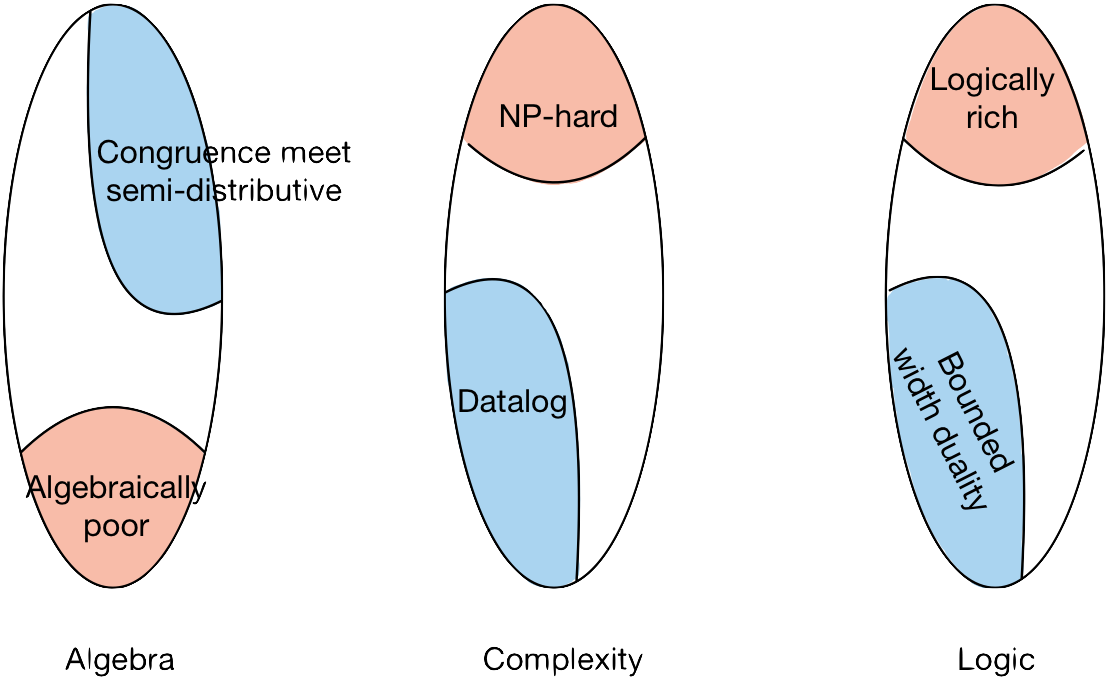
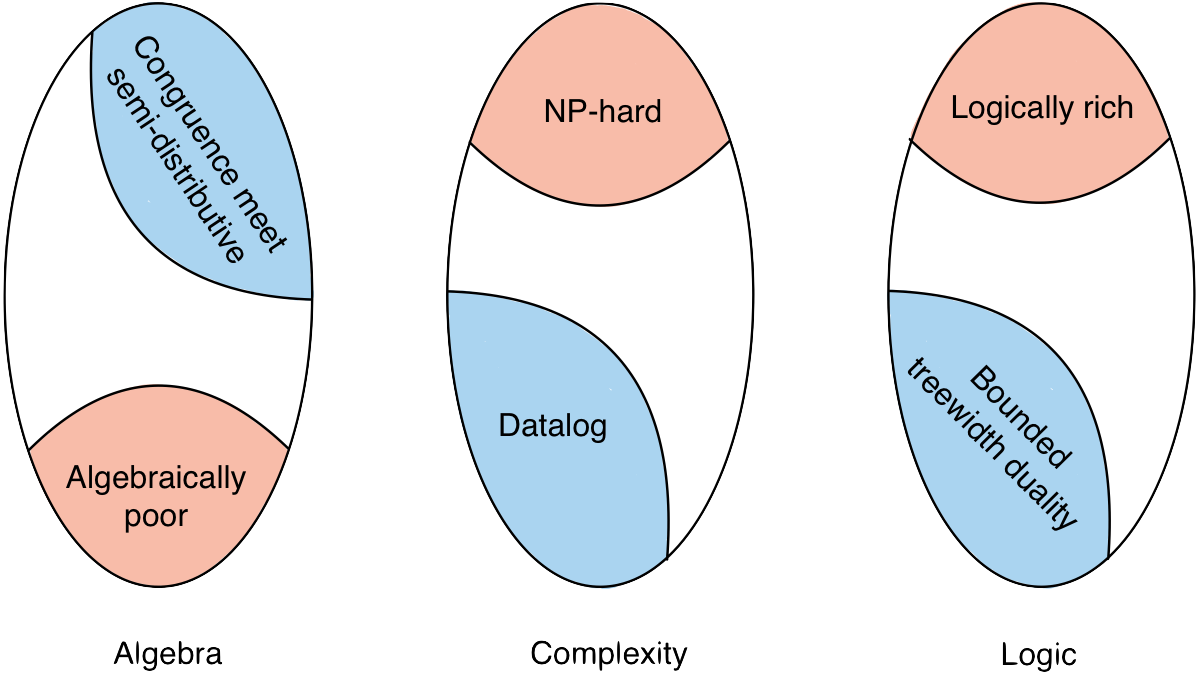
...

diff --git a/talks/munich/munich.html b/talks/munich/munich.html
@@ -158,8 +158,7 @@ I used to say that no one knows <strong>why</strong> this happens.<br />
         <hr>
         <div class="timeline_dates center">
             <div class="timeline_date" data-tmdate="1978" data-tmpos="0">1978</div>
-            <div class="timeline_date" data-tmdate="1990" data-tmpos="28">1990</div>
-            
+            <div class="timeline_date" data-tmdate="1990" data-tmpos="28">1990</div>    
             <div class="timeline_date " data-tmdate="1993" data-tmpos="36">1993</div>
             <div class="timeline_date " data-tmdate="2000" data-tmpos="53">2000</div>
             <div class="timeline_date " data-tmdate="2003" data-tmpos="60">2003</div>
@@ -329,17 +328,74 @@ I used to say that no one knows <strong>why</strong> this happens.<br />
           
         Two large classes of structures relevant for applications: <strong>numeric</strong> structures and <strong>orbit-finite</strong> structures.
       </div>
-      <ul>
+        
+      <div class="slide">
+      Can be seen as <strong>finite</strong> constraint satisfaction but for finding labelling of <strong>pairs</strong> of variables satisfying higher-dimensional constraints.
+      </div>
+    <div style="position:relative;">
+        <div class="out-of-layout"><div class=" slide example vanish">Find an assignment $E\to\{\text{red}, \text{blue}\}$ while avoiding monochromatic <strong>triangles</strong>.
+        <img src="assets/infinite_example.png" />
+        </div></div>
+        <div class="out-of-layout"><div class=" slide example vanish">Find an assignment $E\to\{\text{red}, \text{blue}\}$ while avoiding monochromatic <strong>triangles</strong>.
+        <img src="assets/infinite_example1.png" />
+        </div></div>
+        <div class="out-of-layout"><div class=" slide example vanish">Find an assignment $E\to\{\text{red}, \text{blue}\}$ while avoiding monochromatic <strong>odd cycles</strong>.
+        <img src="assets/infinite_example2.png" />
+        </div></div>
+        <div class="out-of-layout"><div class=" slide example vanish">Find an orientation that avoids <strong>directed cycles</strong>.
+        <img src="assets/infinite_example.png" />
+        </div></div>
+        
+    </div>
+    <div class="slide example">Find an orientation that avoids <strong>directed cycles</strong>.
+        <img src="assets/infinite_example3.png" />
+        </div>
+    <ul class="slide with-margins">
+        <li>Intuitive explanation: build an infinite constraint language $\mathbb A$ for which the corresponding satisfiable instances are graphs with an admissible coloring/orientation.</li>
+        <li>Utilizes Fraïssé or Hrushovski amalgamation methods from model theory</li>
+    </ul>
+    </section>
+      
+    <section class="slide" id="timeline_infinite">
+        <h2>Timeline: Infinite edition</h2>
+      <div class="timeline">
+        <hr>
+        <div class="timeline_dates center">
+            <div class="timeline_date" data-tmdate="2006" data-tmpos="0">2006</div>
+            <div class="timeline_date" data-tmdate="2008" data-tmpos="11">2008</div>
+            <div class="timeline_date " data-tmdate="2011" data-tmpos="27">2011</div>
+            <div class="timeline_date " data-tmdate="2015" data-tmpos="49">2015</div>
+            <div class="timeline_date " data-tmdate="2018" data-tmpos="64">2018</div>
+            <div class="timeline_date " data-tmdate="2019" data-tmpos="69">2019</div>
+            <div class="timeline_date " data-tmdate="2021" data-tmpos="80">2021</div>
+            <div class="timeline_date " data-tmdate="2022" data-tmpos="85">2022</div>
+            <div class="timeline_date " data-tmdate="2023" data-tmpos="90">2023</div>
+            <div class="timeline_date" data-tmdate="2024" data-tmpos="95">2024</div>
+        </div>
+          
+        <div class="timeline_descs">
+          
+        <div class="conjecture timeline_desc slide"tm-desc="2011">
+            <div class="citation" data-tmdesc="2011">Bodirsky, Pinsker</div>    
+            For such a constraint language $\mathbb A$, exactly one of the following holds:
+            <ul>
+            <li>$\Pol(\mathbb A)$ is algebraically and topologically non-trivial, and $\CSP(\mathbb A)$ is solvable in polynomial time</li>
+            <li>$\mathbb A$ can logically define 3-SAT, and $\CSP(\mathbb A)$ is NP-complete.</li>
+            </ul>
+        </div>
+      <ul class="with-margins">
           <li class="slide"><strong>Smooth Approximations</strong>: a theory to relate finite CSPs and infinite CSPs
-              <ul class="slide"><li>Subsumes most of the literature from period 2006-2020<span class="inline-citation"><strong>M.</strong>, Pinsker [J. ACM'24]</span></li>
-              <li>Recent extensions of the theory to prove new results<span class="inline-citation"><strong>M.</strong>, Nagy, Pinsker [ICALP'24] Bitter, <strong>M.</strong> [MFCS'24]</span></li></ul></li>  
-        <li class="slide">Algebraic theory of polymorphisms on infinite sets<span class="inline-citation">Barto, Bodor, Kozik, <strong>M.</strong>, Pinsker [LICS'23]</span></li>
+              <ul class="slide" data-tmdesc="2024,2021,2022"><li>Subsumes most of the literature from period 2006-2020<span class="inline-citation"><strong>M.</strong>, Pinsker [J. ACM'24]</span></li>
+              <li>Recent promising extensions of the theory<span class="inline-citation"><strong>M.</strong>, Nagy, Pinsker, Wrona [SICOMP'24] <strong>M.</strong>, Nagy, Pinsker [ICALP'24] Bitter, <strong>M.</strong> [MFCS'24]</span></li></ul></li>  
+        <li class="slide" data-tmdesc="2023">Algebraic theory of polymorphisms on infinite sets<span class="inline-citation">Barto, Bodor, Kozik, <strong>M.</strong>, Pinsker [LICS'23]</span></li>
       </ul>
         
     <div class="slide theorem">
-    <div class="citation"><strong>M.</strong> ['24+]</div>    
+    <div class="citation" data-tmdesc="2024"><strong>M.</strong> ['24+]</div>    
         Let $\mathbb A$ be such that $\CSP(\mathbb A)$ is not NP-hard. Then for all <strong>orbit-finite</strong> $\mathscr G\subseteq\Aut(\mathbb A)$, there exist $\varphi\colon A^6\to A, \alpha,\beta,\gamma\in\overline{\mathscr G}$ satisfying
         $$\forall x,y\in A\colon \alpha\circ \varphi(x,x,y,y,x,x) = \beta\circ \varphi(x,y,x,y,x,y) = \gamma\circ \varphi(y,x,x,x,y,y)$$
+    </div>  
+        </div>
     </div>
     </section>
       
@@ -359,17 +415,21 @@ I used to say that no one knows <strong>why</strong> this happens.<br />
             <li>A theory compiling our medical knowledge: an <strong>ontology</strong></li>
         </ul>
         </div>
-        <div class="slide">We want:<ul><li>query the system to find patients in the database satisfying certain properties</li></ul></div>
+        <div class="slide">We want:<ul><li>query the system to find patients in the database satisfying certain properties <strong>modulo the ontology</strong></li></ul></div>
         </div>
         
-        <pre class="slide"><code>--- Placeholder ---</code></pre>
+        <div style="position:relative;">
+        <div class="out-of-layout"><div class="shelf slide vanish">
+        <pre><code>Observed(patient1,"Erythema chronica migrans")</code></pre>
+        <img src="assets/snomed.png" style="height:200px; width:auto;"/>
+        <pre><code>Return patients with Lyme disease</code></pre>
+        </div></div>
         
-        <div class="slide">Execution of a fixed query on an input database is coNP-complete. Which queries are efficiently executable?</div>
+        <div class="slide">Execution of a fixed query on an input database is in coNP. Which queries are efficiently executable?</div>
         
         <div class="slide with-margins">
-        <div class="theorem">
+        <div class="theorem"><div class="citation">Bienvenu, Lutz, Ten Cate, Wolter [TODS'14] + Bodirsky, Madelaine, <strong>M.</strong> [LICS'18]</div>
         Evaluating a query $(\mathcal O,q)$ in $(\mathcal{ALC},UCQ)$ is logspace-equivalent to solving a CSP instance in $\mathbb A_{\mathcal O,q}$.
-            <div class="citation">Bienvenu, Lutz, Ten Cate, Wolter [TODS'14] + Bodirsky, Madelaine, <strong>M.</strong> [LICS'18]</div>
         </div>
         </div>
         
@@ -410,7 +470,7 @@ I used to say that no one knows <strong>why</strong> this happens.<br />
         <div class="out-of-layout">
             <div class="shelf slide vanish">
             <div class="game-status" style="width:35%;">
-                <p>Emmanuel wants to keep $\sum w_i\geq 0$ in the limit,<br /> Angela want to make the sum $&lt;0$.</p>
+                <p>Emmanuel wants to keep $\sum w_i\geq 0$ in the limit,<br /> Marine wants to make the sum $&lt;0$.</p>
             <ul>
                 <li>Turn: Emmanuel</li>
                 <li>Current $\sum$: 0</li>
@@ -422,7 +482,7 @@ I used to say that no one knows <strong>why</strong> this happens.<br />
         <div class="out-of-layout">
             <div class="shelf slide vanish">
             <div class="game-status" style="width:35%;">
-                <p>Emmanuel wants to keep $\sum w_i\geq 0$ in the limit,<br /> Angela want to make the sum $&lt;0$.</p>
+                <p>Emmanuel wants to keep $\sum w_i\geq 0$ in the limit,<br /> Marine wants to make the sum $&lt;0$.</p>
             <ul>
                 <li>Turn: Emmanuel</li>
                 <li>Current $\sum$: -1</li>
@@ -434,9 +494,9 @@ I used to say that no one knows <strong>why</strong> this happens.<br />
         <div class="out-of-layout">
             <div class="shelf slide vanish">
             <div class="game-status" style="width:35%;">
-                <p>Emmanuel wants to keep $\sum w_i\geq 0$ in the limit,<br /> Angela want to make the sum $&lt;0$.</p>
+                <p>Emmanuel wants to keep $\sum w_i\geq 0$ in the limit,<br /> Marine wants to make the sum $&lt;0$.</p>
             <ul>
-                <li>Turn: Angela</li>
+                <li>Turn: Marine</li>
                 <li>Current $\sum$: -2</li>
             </ul>
             </div>
@@ -446,7 +506,7 @@ I used to say that no one knows <strong>why</strong> this happens.<br />
         <div class="out-of-layout">
             <div class="shelf slide vanish">
             <div class="game-status" style="width:35%;">
-                <p>Emmanuel wants to keep $\sum w_i\geq 0$ in the limit,<br /> Angela want to make the sum $&lt;0$.</p>
+                <p>Emmanuel wants to keep $\sum w_i\geq 0$ in the limit,<br /> Marine wants to make the sum $&lt;0$.</p>
             <ul>
                 <li>Turn: Emmanuel</li>
                 <li>Current $\sum$: 0</li>
@@ -458,9 +518,9 @@ I used to say that no one knows <strong>why</strong> this happens.<br />
         <div class="out-of-layout">
             <div class="shelf slide vanish">
             <div class="game-status" style="width:35%;">
-                <p>Emmanuel wants to keep $\sum w_i\geq 0$ in the limit,<br /> Angela want to make the sum $&lt;0$.</p>
+                <p>Emmanuel wants to keep $\sum w_i\geq 0$ in the limit,<br /> Marine wants to make the sum $&lt;0$.</p>
             <ul>
-                <li>Turn: Angela</li>
+                <li>Turn: Marine</li>
                 <li>Current $\sum$: 42</li>
             </ul>
             </div>
@@ -470,7 +530,7 @@ I used to say that no one knows <strong>why</strong> this happens.<br />
         <div class="out-of-layout">
             <div class="shelf slide vanish">
             <div class="game-status" style="width:35%;">
-                <p>Emmanuel wants to keep $\sum w_i\geq 0$ in the limit,<br /> Angela want to make the sum $&lt;0$.</p>
+                <p>Emmanuel wants to keep $\sum w_i\geq 0$ in the limit,<br /> Marine wants to make the sum $&lt;0$.</p>
             <ul>
                 <li>Turn: Emmanuel</li>
                 <li>Current $\sum$: 52</li>
@@ -482,7 +542,7 @@ I used to say that no one knows <strong>why</strong> this happens.<br />
         <div class="out-of-layout">
             <div class="shelf slide vanish">
             <div class="game-status" style="width:35%;">
-                <p>Emmanuel wants to keep $\sum w_i\geq 0$ in the limit,<br /> Angela want to make the sum $&lt;0$.</p>
+                <p>Emmanuel wants to keep $\sum w_i\geq 0$ in the limit,<br /> Marine wants to make the sum $&lt;0$.</p>
             <ul>
                 <li>Turn: Emmanuel</li>
                 <li>Current $\sum$: 51</li>
@@ -494,10 +554,10 @@ I used to say that no one knows <strong>why</strong> this happens.<br />
           <div class="out-of-layout">
             <div class="shelf slide vanish">
             <div class="game-status" style="width:35%;">
-                <p>Emmanuel wants to keep $\sum w_i\geq 0$ in the limit,<br /> Angela want to make the sum $&lt;0$.</p>
+                <p>Emmanuel wants to keep $\sum w_i\geq 0$ in the limit,<br /> Marine wants to make the sum $&lt;0$.</p>
             <ul>
                 <li>Turn: Emmanuel</li>
-                <li>Current $\sum$: -1000</li>
+                <li>Current $\sum$: tends to $-\infty$</li>
             </ul>
             </div>
             <img src="assets/mpg6.png" style="height:500px;width:auto;" />
@@ -505,7 +565,7 @@ I used to say that no one knows <strong>why</strong> this happens.<br />
         </div>
 
       </div>
-      <div class="slide"><strong>Problem:</strong> Given a MPG $G$ with a starting position $v\in V$, decide who of Angela/Emmanuel wins.</div>
+      <div class="slide"><strong>Problem:</strong> Given a MPG $G$ with a starting position $v\in V$, decide who of Marine/Emmanuel wins.</div>
       <ul class="slide">
         <li>Generalizes parity games (model-checking for modal $\mu$-calculus)</li>
         <li>Verification of reactive systems, design of online algorithms</li>
@@ -516,9 +576,10 @@ I used to say that no one knows <strong>why</strong> this happens.<br />
           Deciding the winner in a mean-payoff game is polynomial-time equivalent to deciding satisfiability of a CSP over $\mathbb Z$ with constraints $x\leq\max(y,z)+c$ ($c\in\mathbb Z$).
           <div class="citation">Atserias, Maneva</div>
       </div>
+        <div class="slide">$\max\colon\mathbb Z^2\to\mathbb Z$ is a polymorphism of this constraint language! (but infinitely many relations)</div>
           
-      <div class="slide theorem" style="background-image: url(assets/datalog.png);background-position: 85%;background-size: contain; background-repeat: no-repeat;"><div class="citation">Bodirsky, Martin, <strong>M.</strong> [J. ACM'18]</div>
-           For every $\mathbb A$ definable over $(\mathbb Z;&lt;)$, exactly one of the following holds:
+      <div class="slide theorem with-margins" style="background-image: url(assets/datalog.png);background-position: 85%;background-size: contain; background-repeat: no-repeat;"><div class="citation">Bodirsky, Martin, <strong>M.</strong> [J. ACM'18]</div>
+           For every $\mathbb A$ definable over $(\mathbb Z;&lt;)$ with finitely many relations, exactly one of the following holds:
         <ul>
             <li>$\Pol(\mathbb A)$ contains non-trivial symmetries and $\CSP(\mathbb A)$ is solvable in polynomial time,</li>  
             <li>$\Pol(\mathbb A)$ is trivial, and $\CSP(\mathbb A)$ is NP-complete.</li>

diff --git a/talks/munich/perso.css b/talks/munich/perso.css
@@ -39,12 +39,12 @@ ul {
 
 
 .observation, .theorem, .definition, .example, .conjecture, .proof, .slogan {
-    height: 100%;
+/*    height: 100%;*/
     width: 100%;
     margin-bottom: 10px;
-    margin-right: 10px;
+/*    margin-right: 10px;*/
     padding-left: 20px;
-    padding-right: 20px;
+/*    padding-right: 20px;*/
     padding-top: 10px;
     padding-bottom: 10px;
     position: relative;
